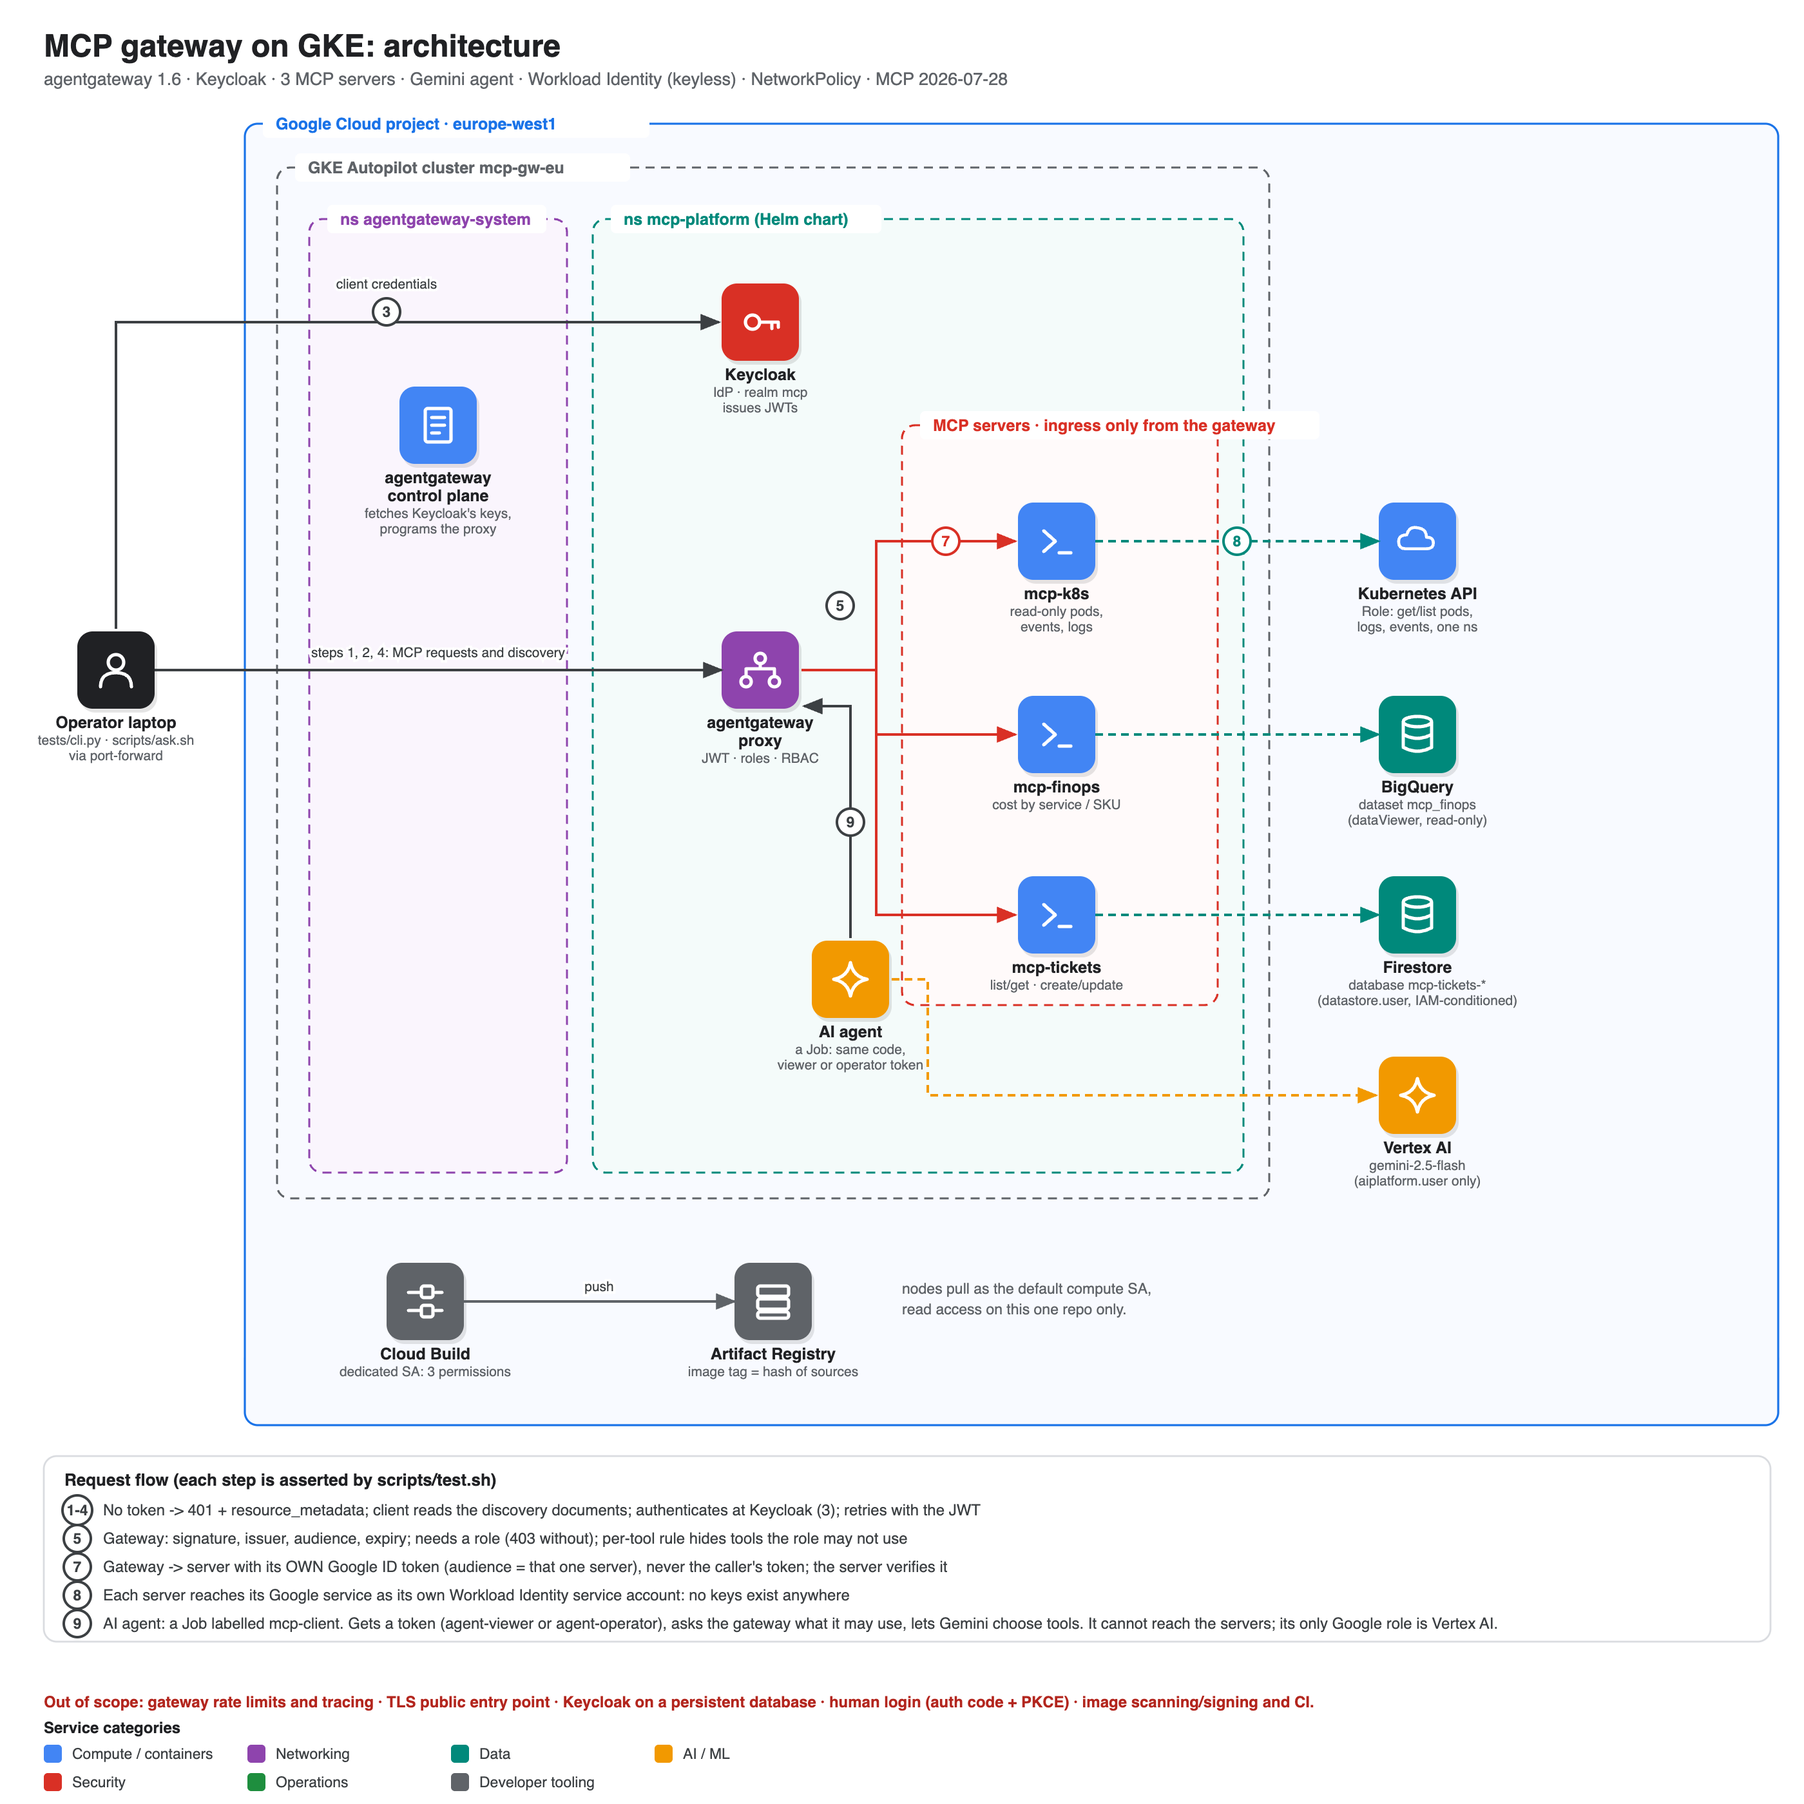
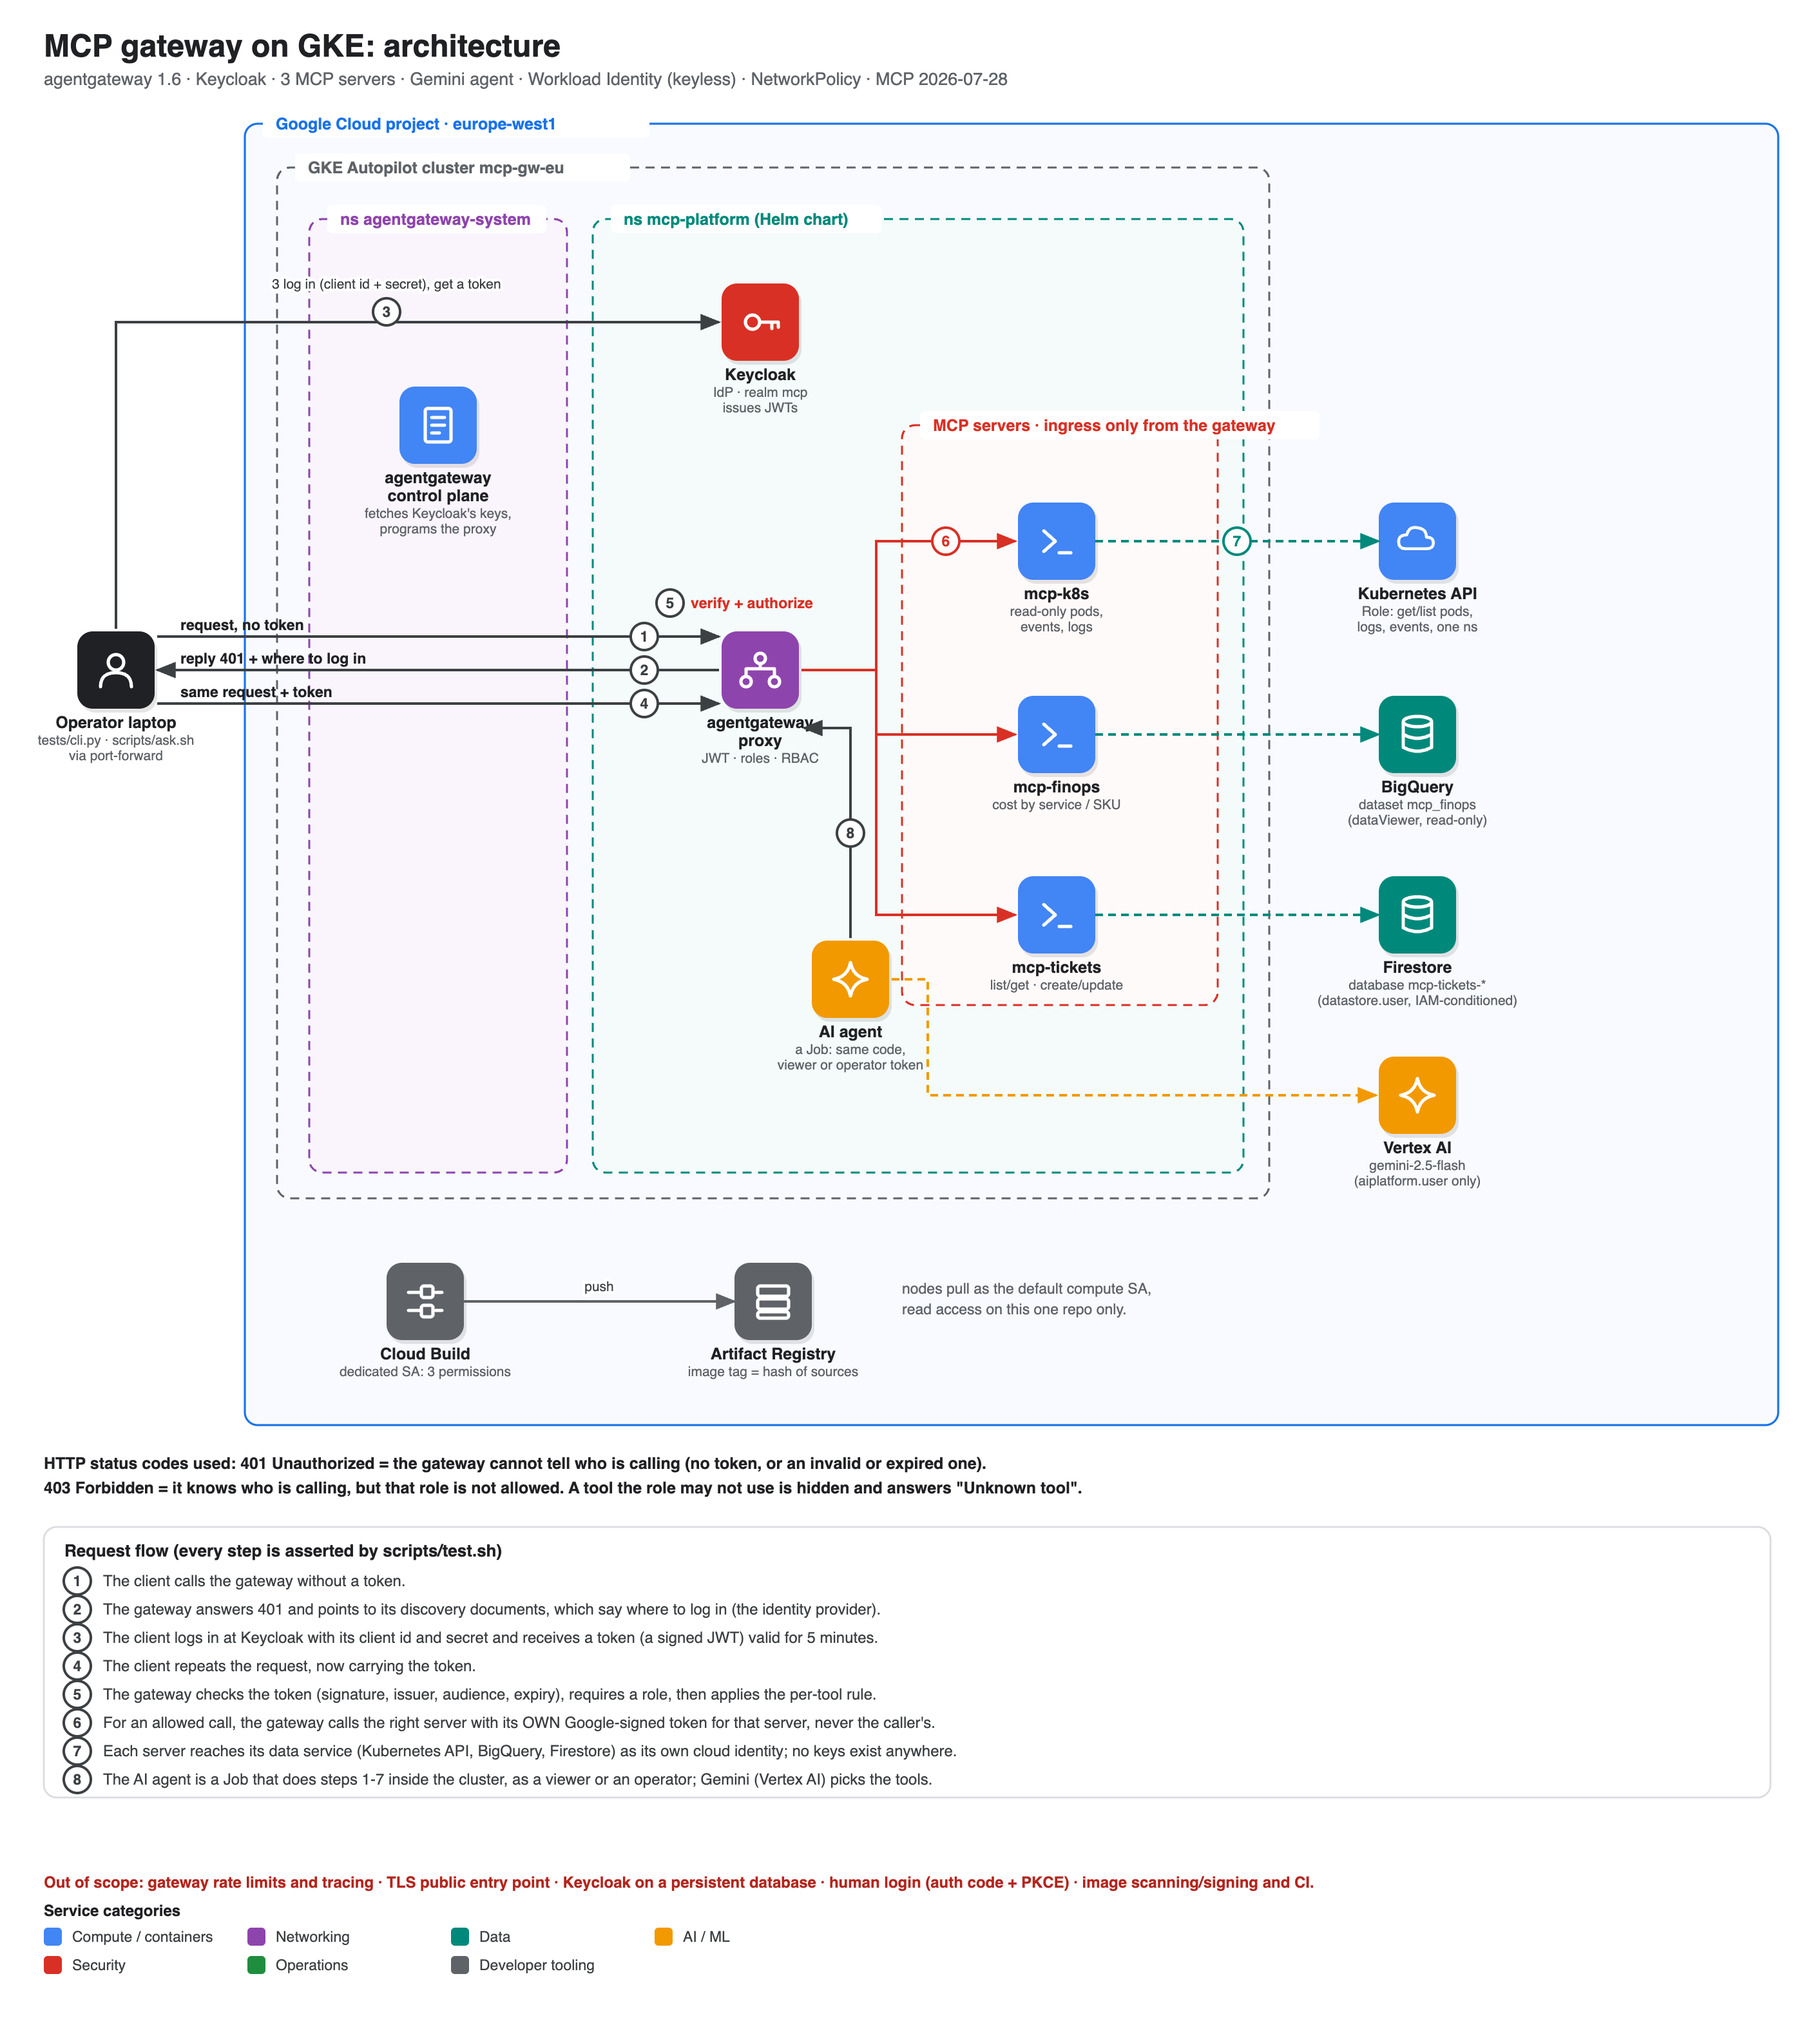
docs: numbered one-arrow-per-step diagram, plain-English legend, 401/403 explained; align README and architecture flow numbering (#9)

diff --git a/docs/diagrams/architecture.py b/docs/diagrams/architecture.py
@@ -11,7 +11,7 @@ from archlib import Diagram  # noqa: E402
 
 OUT = os.path.join(os.path.dirname(__file__), "..", "img", "architecture.svg")
 
-W, H = 1400, 1400
+W, H = 1400, 1570
 d = Diagram(W, H, "MCP gateway on GKE: architecture",
             "agentgateway 1.6 · Keycloak · 3 MCP servers · Gemini agent · Workload Identity (keyless) · NetworkPolicy · MCP 2026-07-28")
 
@@ -34,15 +34,22 @@ d.node("kapi", 1100, 420, "Kubernetes API", "cloud", "compute", "Role: get/list 
 d.node("bq", 1100, 570, "BigQuery", "db", "data", "dataset mcp_finops\n(dataViewer, read-only)")
 d.node("fs", 1100, 710, "Firestore", "db", "data", "database mcp-tickets-*\n(datastore.user, IAM-conditioned)")
 
-d.edge("cli", "prx", "h", label="steps 1, 2, 4: MCP requests and discovery", lab_dy=-10)
-d.path([(90, 488), (90, 250), (558, 250)], num=3, label="client credentials", lab_at=(300, 242))
-d.path([(622, 520), (680, 520), (680, 420), (788, 420)], num=7, color="#d93025")
+# steps 1, 2 and 4 are three separate arrows between the client and the gateway
+d.path([(122, 494), (558, 494)])
+d.path([(558, 520), (122, 520)])
+d.path([(122, 546), (558, 546)])
+for y, n, txt in ((494, "1", "request, no token"), (520, "2", "reply 401 + where to log in"), (546, "4", "same request + token")):
+    d.badge(500, y, n)
+    d.text(140, y - 5, txt, 11.5, "#202124", "600")
+d.path([(90, 488), (90, 250), (558, 250)], num=3, label="3  log in (client id + secret), get a token", lab_at=(300, 242))
+d.badge(520, 468, "5")
+d.text(536, 472, "verify + authorize", 11.5, "#d93025", "600")
+d.path([(622, 520), (680, 520), (680, 420), (788, 420)], num=6, color="#d93025")
 d.path([(680, 520), (680, 570), (788, 570)], color="#d93025")
 d.path([(680, 570), (680, 710), (788, 710)], color="#d93025")
-d.badge(652, 470, "5")
-d.edge("k8s", "kapi", "h", num=8, color="#00897b", dash=True)
+d.edge("k8s", "kapi", "h", num=7, color="#00897b", dash=True)
 d.node("vtx", 1100, 850, "Vertex AI", "sparkle", "ai", "gemini-2.5-flash\n(aiplatform.user only)")
-d.path([(660, 728), (660, 548), (624, 548)], num=9)
+d.path([(660, 728), (660, 565), (624, 565)], num=8)
 d.path([(692, 760), (720, 760), (720, 850), (1068, 850)], color="#f29900", dash=True)
 d.edge("fin", "bq", "h", color="#00897b", dash=True)
 d.edge("tix", "fs", "h", color="#00897b", dash=True)
@@ -53,15 +60,20 @@ d.edge("cb", "ar", "h", label="push", color="#5f6368")
 d.text(700, 1004, "nodes pull as the default compute SA,", 11.5)
 d.text(700, 1020, "read access on this one repo only.", 11.5)
 
-d.legend(34, 1130, "Request flow (each step is asserted by scripts/test.sh)", [
-    ("1-4", "No token -> 401 + resource_metadata; client reads the discovery documents; authenticates at Keycloak (3); retries with the JWT"),
-    ("5", "Gateway: signature, issuer, audience, expiry; needs a role (403 without); per-tool rule hides tools the role may not use"),
-    ("7", "Gateway -> server with its OWN Google ID token (audience = that one server), never the caller's token; the server verifies it"),
-    ("8", "Each server reaches its Google service as its own Workload Identity service account: no keys exist anywhere"),
-    ("9", "AI agent: a Job labelled mcp-client. Gets a token (agent-viewer or agent-operator), asks the gateway what it may use, lets Gemini choose tools. It cannot reach the servers; its only Google role is Vertex AI."),
+d.text(34, 1140, "HTTP status codes used:  401 Unauthorized = the gateway cannot tell who is calling (no token, or an invalid or expired one).", 12.5, "#202124", "600")
+d.text(34, 1159, "403 Forbidden = it knows who is calling, but that role is not allowed.  A tool the role may not use is hidden and answers \"Unknown tool\".", 12.5, "#202124", "600")
+d.legend(34, 1185, "Request flow (every step is asserted by scripts/test.sh)", [
+    ("1", "The client calls the gateway without a token."),
+    ("2", "The gateway answers 401 and points to its discovery documents, which say where to log in (the identity provider)."),
+    ("3", "The client logs in at Keycloak with its client id and secret and receives a token (a signed JWT) valid for 5 minutes."),
+    ("4", "The client repeats the request, now carrying the token."),
+    ("5", "The gateway checks the token (signature, issuer, audience, expiry), requires a role, then applies the per-tool rule."),
+    ("6", "For an allowed call, the gateway calls the right server with its OWN Google-signed token for that server, never the caller's."),
+    ("7", "Each server reaches its data service (Kubernetes API, BigQuery, Firestore) as its own cloud identity; no keys exist anywhere."),
+    ("8", "The AI agent is a Job that does steps 1-7 inside the cluster, as a viewer or an operator; Gemini (Vertex AI) picks the tools."),
 ], w=1340)
-d.text(34, 1325, "Out of scope: gateway rate limits and tracing · TLS public entry point · Keycloak on a persistent database · human login (auth code + PKCE) · image scanning/signing and CI.", 12, "#b3261e", "600")
-d.key(34, 1345)
+d.text(34, 1465, "Out of scope: gateway rate limits and tracing · TLS public entry point · Keycloak on a persistent database · human login (auth code + PKCE) · image scanning/signing and CI.", 12, "#b3261e", "600")
+d.key(34, 1487)
 
 if __name__ == "__main__":
     d.save(OUT)

diff --git a/README.md b/README.md
@@ -10,17 +10,26 @@ own identity. Three MCP servers, a Gemini-based agent and the supporting infrast
 
 ## How a request flows
 
-1. The agent asks **Keycloak** (OAuth 2.0 client-credentials grant) for an access token. The token is a signed JWT that
-   names the caller's role (`mcp-viewer` or `mcp-operator`) and the audience it is meant for (this gateway).
-2. The agent sends an MCP request to the **gateway** with `Authorization: Bearer <token>`. A request without a valid token
-   gets `401` and a pointer to the gateway's discovery documents, which is how a spec-compliant client finds the
-   authorization server on its own.
-3. The gateway verifies the token (signature, issuer, audience, expiry), requires a role, and evaluates a per-tool rule:
-   a viewer is shown, and may call, only an explicit allow-list of read tools; an operator may use every tool.
-4. For an allowed call the gateway picks the server that owns the tool and calls it **as itself**: it presents a
-   Google-signed ID token whose audience is that one server. The caller's token is never forwarded.
-5. The server verifies that credential, runs the tool, and reaches its backing service (Kubernetes API, BigQuery or
-   Firestore) with its own least-privilege cloud identity. No service-account keys exist anywhere in the system.
+The numbers match the architecture diagram above.
+
+1. **The client calls the gateway without a token.**
+2. **The gateway answers `401`.** HTTP 401 *Unauthorized* means "I cannot tell who you are": there was no token, or it was
+   invalid or expired. The reply also points to the gateway's discovery documents, which say where to log in. This is how an
+   MCP client that has never seen the server finds the identity provider on its own.
+3. **The client logs in at Keycloak** (OAuth 2.0 client-credentials grant, with its client id and secret) and receives an
+   access token: a signed JWT, valid for 5 minutes, that names the caller's role (`mcp-viewer` or `mcp-operator`) and the
+   audience it is meant for (this gateway).
+4. **The client repeats the request, now carrying the token** (`Authorization: Bearer <token>`).
+5. **The gateway verifies and authorizes.** It checks the token's signature, issuer, audience and expiry (failure: `401`),
+   requires a role (no role: `403`, HTTP *Forbidden*, meaning "I know who you are, but you are not allowed"), and applies the
+   per-tool rule: a viewer is shown, and may call, only an explicit allow-list of read tools; an operator may use every tool.
+   A tool a role may not use is hidden from its tool list and a direct call answers "Unknown tool".
+6. **The gateway calls the right server as itself.** It presents a Google-signed ID token whose audience is that one server;
+   the caller's token is never forwarded. The server verifies that credential and runs the tool.
+7. **The server reaches its data service** (Kubernetes API, BigQuery or Firestore) with its own least-privilege cloud
+   identity. No service-account keys exist anywhere in the system.
+8. **The AI agent** is a Kubernetes Job that performs steps 1 to 7 inside the cluster, as a viewer or an operator, and lets
+   Gemini (Vertex AI) choose which tools to call.
 
 The mechanics behind each step are described in [docs/architecture.md](docs/architecture.md). The concepts (MCP, OAuth,
 JWT, one gateway versus many, best practices) are explained from first principles in

diff --git a/docs/how-mcp-works.md b/docs/how-mcp-works.md
@@ -74,7 +74,7 @@ A user asks the agent: "How many pods are running, and which cloud service costs
 1. The LLM replies with a request to call `k8s_list_pods(namespace="mcp-platform")`. (The model's output is text; nothing
    has been called yet.)
 2. The agent sends `tools/call` to the gateway with `Authorization: Bearer <token>`.
-3. The gateway verifies the token (signature, issuer, audience, expiry). Invalid: `401`.
+3. The gateway verifies the token (signature, issuer, audience, expiry). Invalid: `401` (HTTP *Unauthorized*: "I cannot tell who you are").
 4. The gateway checks that this identity may use this tool. Not allowed: the tool is not even in its `tools/list`, and a
    direct call returns "Unknown tool".
 5. The gateway chooses the server that owns the tool and calls it, presenting **its own** credential for that server
@@ -234,6 +234,8 @@ was never offered a write tool.
 
 | Term | Meaning |
 |---|---|
+| **401 Unauthorized** | HTTP status meaning "I cannot tell who you are": no token, or an invalid or expired one |
+| **403 Forbidden** | HTTP status meaning "I know who you are, but you are not allowed to do this" |
 | **Audience (`aud`)** | The intended recipient of a token. A service must reject tokens not addressed to it |
 | **Authorization server** | The OAuth component that authenticates callers and issues tokens (Keycloak here) |
 | **CEL** | Common Expression Language, the small expression language used for the gateway's authorization rules |

diff --git a/docs/architecture.md b/docs/architecture.md
@@ -69,6 +69,11 @@ Firestore, the container registry and the build identity.
 
 ## 4. Request lifecycle
 
+The step numbers in the diagram (1 to 8) map to this section as follows: steps 1 to 4 are §4.1 (getting a token), step 5 is
+§4.2 items 1 to 3 and §5.1 to §5.3, step 6 is §4.2 items 4 to 8 and §5.5 to §5.6, step 7 is §4.2 item 9 and §6, and step 8 is
+§10. Two HTTP status codes appear throughout: **401 Unauthorized** means the gateway cannot tell who is calling (no token, or an
+invalid or expired one); **403 Forbidden** means it knows who is calling but that role is not allowed.
+
 ### 4.1 Getting a token and discovering where to authenticate
 
 ```
